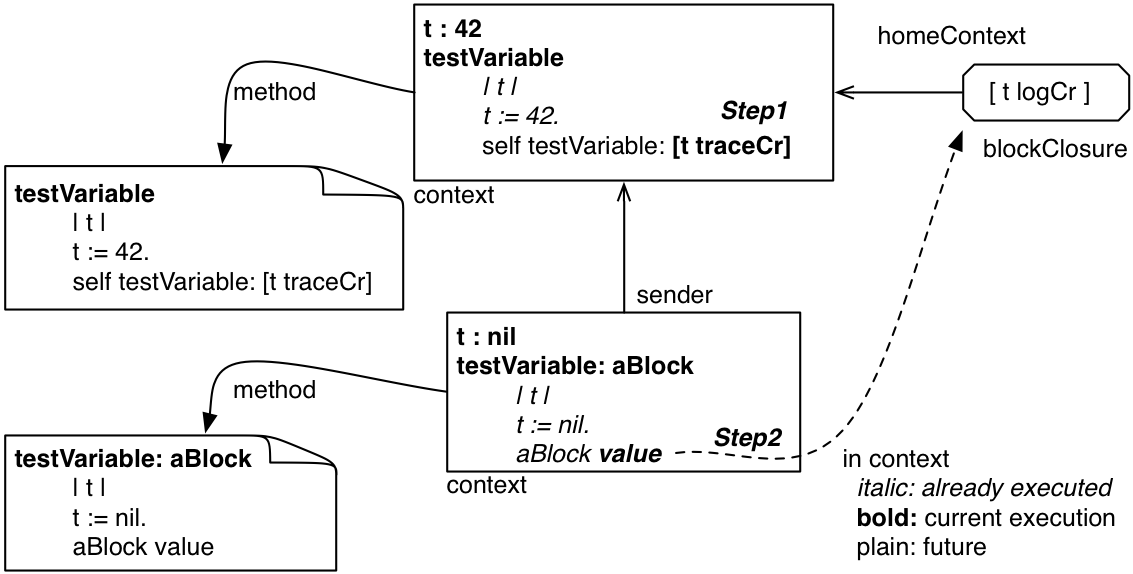
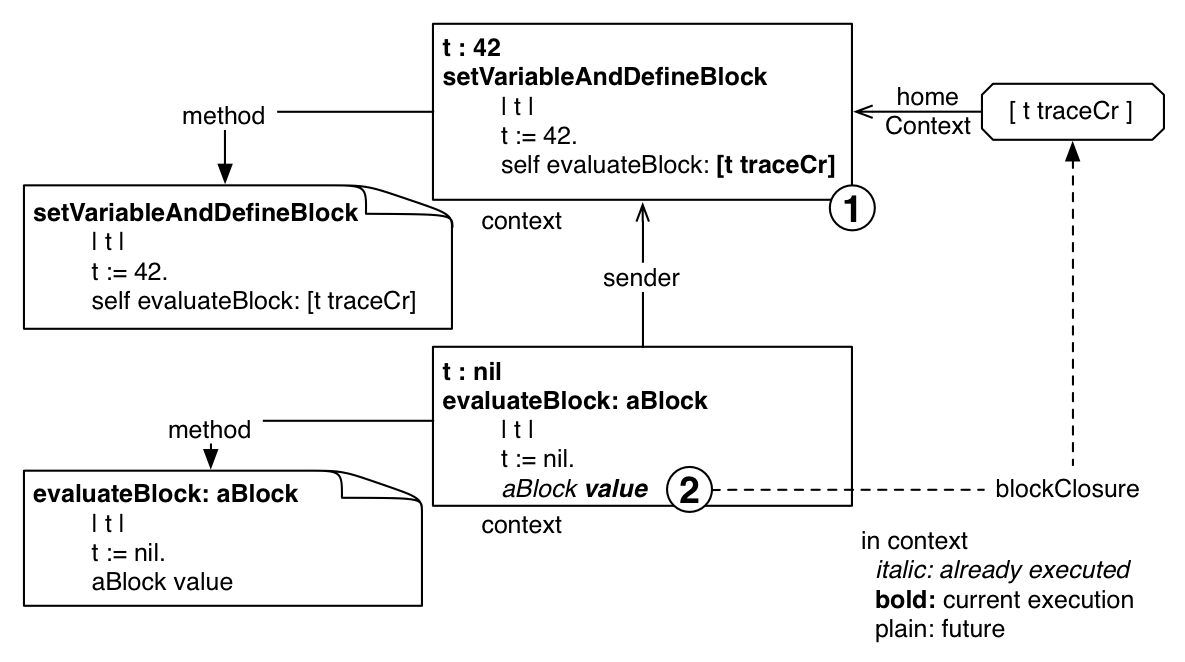
Fix figures of the Block chapter

Changed region(s): [[0.0, 0.0, 1.0, 1.0], [0.8341, 0.7108, 0.9576, 0.77], [0.2162, 0.0889, 0.278, 0.1185]]

diff --git a/Block/Block.tex b/Block/Block.tex
@@ -182,7 +182,7 @@ Let's look at it in detail. Figure~\ref{fig:variable} shows the execution of the
 
 \begin{figure}
 \begin{center}\includegraphics[width=\textwidth]{variable}
-\caption{ non-local variables are looked in the method activation context where the block was created and not evaluated.\label{fig:variable} \dc{must change this figure to reflect the real method names.}\dc{logCr -> traceCr}}
+\caption{Non-local variables are looked in the method activation context where the block was created and not evaluated.\label{fig:variable}}
 \end{center}
 \end{figure}
 
@@ -455,7 +455,7 @@ When the return statement of the block is executed in the method \ct{evaluateBlo
 
 \begin{figure}
 \begin{center}\includegraphics[width=\textwidth]{nonLocalReturn2}
-\caption{A block with non-local return execution returns to the method execution that activated the block home context.\dc{rename methods}\label{nonLocalReturn}}
+\caption{A block with non-local return execution returns to the method execution that activated the block home context.\label{nonLocalReturn}}
 \end{center}
 \end{figure}
 
